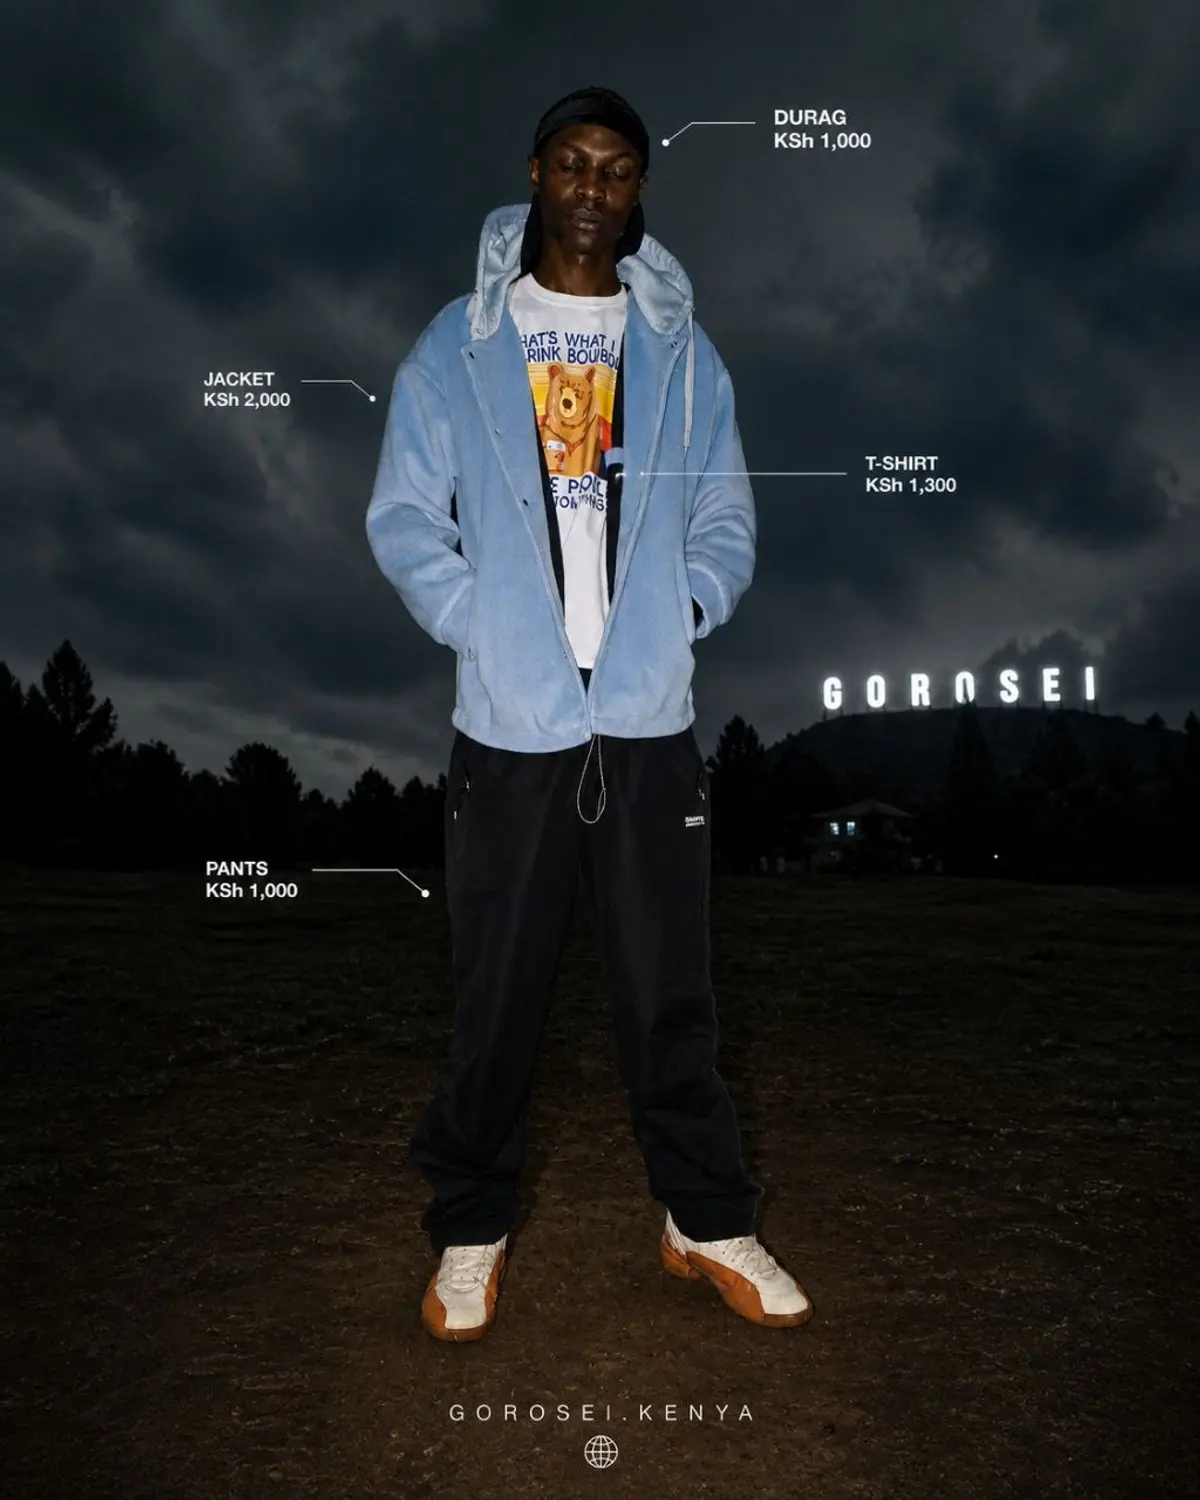
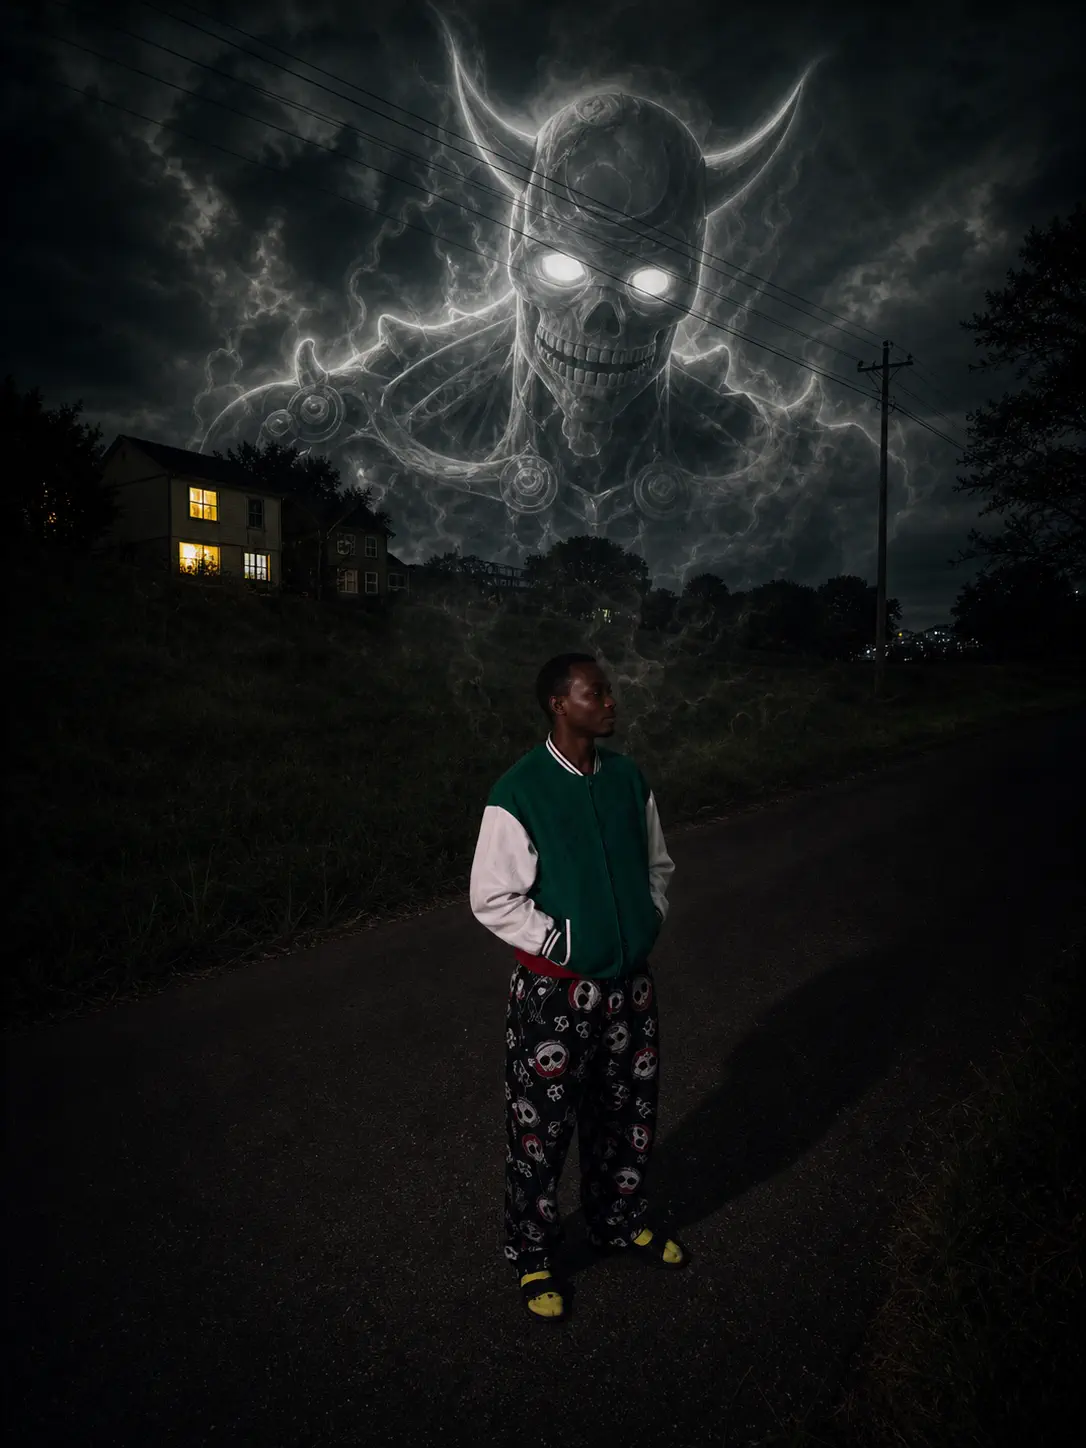
Optimize fit check media

diff --git a/src/pages/CustomerPage.jsx b/src/pages/CustomerPage.jsx
@@ -727,11 +727,20 @@ export default function CustomerPage() {
         </AnimatedSection>
       </section>
 
-      <section id="fit-check" className="section" style={{ padding: isMobile ? "64px 24px" : "84px 48px", borderBottom: "1px solid var(--surface-light)" }}>
+      <section
+        id="fit-check"
+        className="section"
+        style={{
+          padding: isMobile ? "64px 0" : "84px 48px",
+          borderBottom: "1px solid var(--surface-light)",
+          contentVisibility: "auto",
+          containIntrinsicSize: "900px",
+        }}
+      >
         <AnimatedSection>
-          <div style={{ maxWidth: 1300, margin: "0 auto" }}>
+          <div style={{ maxWidth: 1300, margin: "0 auto", padding: isMobile ? "0 0 0 24px" : 0 }}>
             <div style={{ display: "grid", gridTemplateColumns: isMobile ? "1fr" : "0.82fr 1.18fr", gap: isMobile ? 32 : 56, alignItems: "end" }}>
-              <div>
+              <div style={{ paddingRight: isMobile ? 24 : 0 }}>
                 <span className="font-mono" style={{ fontSize: 10, letterSpacing: "0.3em", color: "var(--crimson)" }}>
                   - FIT CHECK
                 </span>
@@ -762,9 +771,16 @@ export default function CustomerPage() {
               <div
                 style={{
                   display: "grid",
-                  gridTemplateColumns: isMobile ? "1fr 1fr" : "minmax(0, 1fr) minmax(0, 0.78fr)",
-                  gap: isMobile ? 10 : 16,
+                  gridAutoFlow: isMobile ? "column" : "row",
+                  gridAutoColumns: isMobile ? "72%" : "auto",
+                  gridTemplateColumns: isMobile ? "none" : "repeat(4, minmax(0, 1fr))",
+                  gap: isMobile ? 10 : 12,
                   alignItems: "end",
+                  overflowX: isMobile ? "auto" : "visible",
+                  paddingRight: isMobile ? 24 : 0,
+                  scrollSnapType: isMobile ? "x mandatory" : "none",
+                  WebkitOverflowScrolling: "touch",
+                  scrollbarWidth: "none",
                 }}
               >
                 {FIT_CHECK_MEDIA.map((item, index) => (
@@ -775,17 +791,18 @@ export default function CustomerPage() {
                       border: "1px solid var(--surface-light)",
                       background: "var(--surface)",
                       overflow: "hidden",
+                      scrollSnapAlign: isMobile ? "start" : "none",
                     }}
                   >
                     <img
                       src={item.src}
                       alt={item.title}
-                      loading={index === 0 ? "eager" : "lazy"}
-                      fetchPriority={index === 0 ? "high" : "auto"}
+                      loading="lazy"
+                      fetchPriority="auto"
                       decoding="async"
                       style={{
                         width: "100%",
-                        aspectRatio: isMobile ? "3 / 4" : index === 0 ? "4 / 5" : "3 / 4",
+                        aspectRatio: "3 / 4",
                         objectFit: "cover",
                         objectPosition: "center",
                         display: "block",
@@ -804,7 +821,7 @@ export default function CustomerPage() {
                         borderTop: "1px solid var(--surface-light)",
                       }}
                     >
-                      <span>{index === 0 ? "ON BODY" : "DETAIL"}</span>
+                      <span>FIT {String(index + 1).padStart(2, "0")}</span>
                       <span>NAIROBI</span>
                     </figcaption>
                   </figure>

diff --git a/src/config/constants.js b/src/config/constants.js
@@ -25,6 +25,16 @@ export const LOOKBOOK_MEDIA = [
   { src: "/lookbook-6.webp", title: "Skulled Finger tee" },
 ];
 export const FIT_CHECK_MEDIA = [
-  { src: "/fit-check-1.webp", title: "Gorosei fit check front" },
-  { src: "/fit-check-2.webp", title: "Gorosei fit check detail" },
+  { src: "/fit-check-1.webp", title: "Amaterasu sky fit check" },
+  { src: "/fit-check-2.webp", title: "Ben 10 green jacket fit check" },
+  { src: "/fit-check-3.webp", title: "Bomber jacket duo shot" },
+  { src: "/fit-check-4.webp", title: "Gorosei night fit check" },
+  { src: "/fit-check-5.webp", title: "Demon Slayer playlist fit check" },
+  { src: "/fit-check-6.webp", title: "Demon Slayer T fit check" },
+  { src: "/fit-check-7.webp", title: "Deuces mirage fit check" },
+  { src: "/fit-check-8.webp", title: "Deuces fit check" },
+  { src: "/fit-check-9.webp", title: "Duo Demon Slayer fit check" },
+  { src: "/fit-check-10.webp", title: "Mamacho fit check" },
+  { src: "/fit-check-11.webp", title: "Street fit check" },
+  { src: "/fit-check-12.webp", title: "Skull taking images fit check" },
 ];
